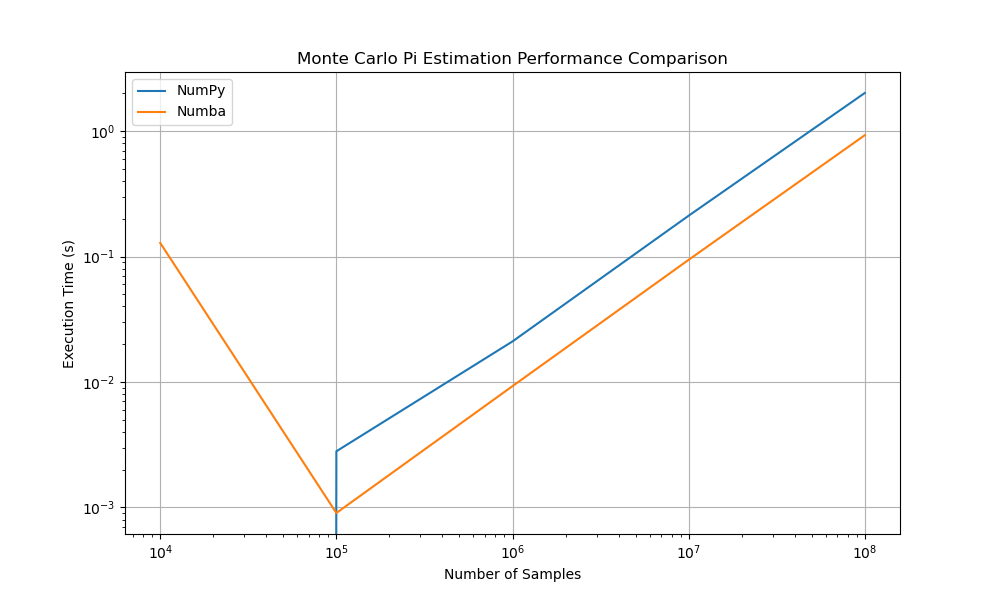
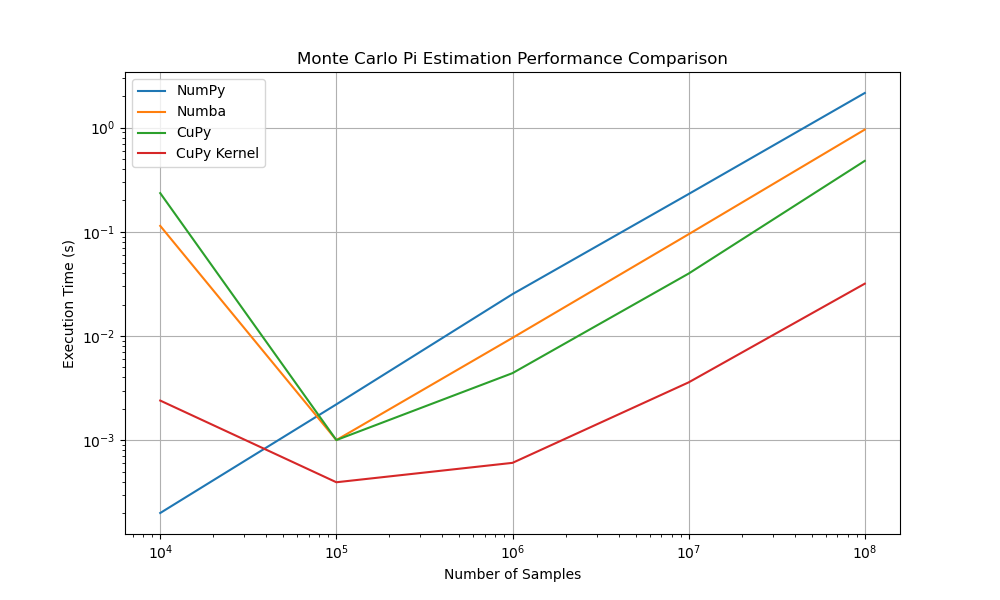
added cuda kernel

diff --git a/misc/monte_carlo_pi.py b/misc/monte_carlo_pi.py
@@ -2,19 +2,40 @@ import numpy as np
 from numba import jit, config
 import matplotlib.pyplot as plt
 import time
+import cupy as cp
+from cupyx import jit as cujit
 
 from utils import *
+import warnings
 
+# disable FutureWarning for Numba JIT
+warnings.filterwarnings("ignore", category=FutureWarning)
+
+# Wrapper functions for timing and comparing Monte Carlo Pi calculations
+# -------------------------------------------------------------------------------------------------
 @avg_timing_decorator
 def monteCarloPiNumpy_AVG(num_samples):
-    """Estimate Pi using Monte Carlo method with NumPy."""
+    """Wrapper function for average timing of Monte Carlo Pi calculation using NumPy."""
     return monteCarloPiNumpy(num_samples)
 
 @avg_timing_decorator
 def monteCarloPiNumba_AVG(num_samples):
-    """Estimate Pi using Monte Carlo method with Numba JIT."""
-    return monteCarloPiNumpy(num_samples)
+    """Wrapper function for average timing of Monte Carlo Pi calculation using Numba JIT."""
+    return monteCarloPiNumba(num_samples)
 
+@avg_timing_decorator
+def monteCarloPiCuPy_AVG(num_samples):
+    """Wrapper function for average timing of Monte Carlo Pi calculation using CuPy."""
+    return monteCarloPiCuPy(num_samples)
+
+@avg_timing_decorator
+def monteCarloPiCuPyKernel_AVG(num_samples):
+    """Wrapper function for average timing of Monte Carlo Pi calculation using a CuPy CUDA kernel."""
+    return monteCarloPiCuPyKernel(num_samples)
+
+
+# Actual Monte Carlo Pi calculation functions
+# -------------------------------------------------------------------------------------------------
 
 def monteCarloPiNumpy(num_samples):
     """Estimate Pi using Monte Carlo method with NumPy."""
@@ -38,6 +59,43 @@ def monteCarloPiNumba(num_samples):
     pi_estimate = (inside_circle / num_samples) * 4
     return pi_estimate
 
+def monteCarloPiCuPy(num_samples):
+    """Estimate Pi using Monte Carlo method with CuPy."""
+    x = cp.random.rand(num_samples)
+    y = cp.random.rand(num_samples)
+    inside_circle = (x**2 + y**2) <= 1.0
+    pi_estimate = (inside_circle.sum() / num_samples) * 4
+    return float(pi_estimate)
+
+# CUDA kernel for Monte Carlo Pi estimation using CuPy RawKernel
+monteCarloPiKernel = cp.RawKernel(r"""
+extern "C" __global__ void monteCarloPi(
+    double* x, double* y, unsigned char* inside, int num_samples) {
+    int tid = blockIdx.x * blockDim.x + threadIdx.x;
+    if (tid < num_samples) {
+        inside[tid] = (x[tid] * x[tid] + y[tid] * y[tid]) <= 1.0;
+    }
+}
+""", "monteCarloPi")
+
+def monteCarloPiCuPyKernel(num_samples):
+    """Estimate Pi using Monte Carlo method with a custom CUDA kernel."""
+    threads_per_block = 256
+    blocks_per_grid = (num_samples + threads_per_block - 1) // threads_per_block
+    
+    x = cp.random.rand(num_samples)
+    y = cp.random.rand(num_samples)
+    inside = cp.zeros(num_samples, dtype=cp.uint8)
+    
+    monteCarloPiKernel(
+        (blocks_per_grid,), (threads_per_block,),
+        (x, y, inside, cp.int32(num_samples))
+    )
+    
+    pi_estimate = (inside.sum() / num_samples) * 4
+    return float(pi_estimate)
+
+
 def main():
     # Parameters
     num_samples = 100_000_000
@@ -46,19 +104,29 @@ def main():
 
     pi_numpy = monteCarloPiNumpy_AVG(num_samples)
     pi_numba = monteCarloPiNumba_AVG(num_samples)
-
-    print(f"Pi estimate using NumPy: {pi_numpy}")
-    print(f"Pi estimate using Numba: {pi_numba}")
+    if check_cupy():
+        pi_cupy = monteCarloPiCuPy_AVG(num_samples)
+        pi_cupy_kernel = monteCarloPiCuPyKernel_AVG(num_samples)
     
+    print(f"\nPi estimate using NumPy:       {pi_numpy}")
+    print(f"Pi estimate using Numba:       {pi_numba}")
+    if check_cupy():
+        print(f"Pi estimate using CuPy:        {pi_cupy}")
+        print(f"Pi estimate using CuPy Kernel: {pi_cupy_kernel}")
+    
+
+
+
+def plot():
     # Plot a performance comparison 
     # --------------------------------------------------------------------------------------------
     print("")
     num_samples = [10**i for i in range(4, 9)]
-    times_numpy = []; times_numba = []
+    times_numpy = []; times_numba = []; times_cupy = []; times_cupy_kernel = []
     num_runs = 5
     for n in num_samples:
         print(f"Estimating Pi using {n:,} samples.")
-        time_numba = 0; time_numpy = 0
+        time_numba = 0; time_numpy = 0; time_cupy = 0; time_cupy_kernel = 0
         for _ in range(num_runs):
             start = time.time()
             monteCarloPiNumpy(n)
@@ -67,17 +135,36 @@ def main():
             start = time.time()
             monteCarloPiNumba(n)
             time_numba += time.time() - start
+
+            if check_cupy():
+                start = time.time()
+                monteCarloPiCuPy(n)
+                time_cupy += time.time() - start
+
+                start = time.time()
+                monteCarloPiCuPyKernel(n)
+                time_cupy_kernel += time.time() - start
+
         times_numpy.append(time_numpy / num_runs)
         times_numba.append(time_numba / num_runs)
+        if check_cupy():
+            times_cupy.append(time_cupy / num_runs)
+            times_cupy_kernel.append(time_cupy_kernel / num_runs)
         
-        print(f"\tAverage execution time for NumPy: {times_numpy[-1]:.4f} seconds")
-        print(f"\tAverage execution time for Numba: {times_numba[-1]:.4f} seconds")
+        print(f"\tAverage execution time for NumPy:       {times_numpy[-1]:.4f} seconds")
+        print(f"\tAverage execution time for Numba:       {times_numba[-1]:.4f} seconds")
+        if check_cupy():
+            print(f"\tAverage execution time for CuPy:        {times_cupy[-1]:.4f} seconds")
+            print(f"\tAverage execution time for CuPy Kernel: {times_cupy_kernel[-1]:.4f} seconds")
                 
         
     # Plot the results
     plt.figure(figsize=(10, 6))
     plt.plot(num_samples, times_numpy, label="NumPy")
     plt.plot(num_samples, times_numba, label="Numba")
+    if check_cupy():
+        plt.plot(num_samples, times_cupy, label="CuPy")
+        plt.plot(num_samples, times_cupy_kernel, label="CuPy Kernel")
     plt.xscale('log')
     plt.yscale('log')
     plt.xlabel("Number of Samples")
@@ -90,28 +177,44 @@ def main():
 
         
 if __name__ == "__main__":
-    main()
+    # main()
+    plot()
     
 
 # OUTPUT:
 # Estimating Pi using 100,000,000 samples.
-# Average execution time for monteCarloPiNumpy_AVG is 2.1093 seconds
-# Average execution time for monteCarloPiNumba_AVG is 1.9931 seconds
-# Pi estimate using NumPy: 3.14150216
-# Pi estimate using Numba: 3.14172632
+# Average execution time for monteCarloPiNumpy_AVG is 2.1847 seconds
+# Average execution time for monteCarloPiNumba_AVG is 1.0806 seconds
+# Average execution time for monteCarloPiCuPy_AVG is 0.4840 seconds
+# Average execution time for monteCarloPiCuPyKernel_AVG is 0.0336 seconds
+# 
+# Pi estimate using NumPy:       3.1416502
+# Pi estimate using Numba:       3.14157812
+# Pi estimate using CuPy:        3.141483
+# Pi estimate using CuPy Kernel: 3.14175208
 
 # Estimating Pi using 10,000 samples.
-#         Average execution time for NumPy: 0.0002 seconds
-#         Average execution time for Numba: 0.1284 seconds
+#         Average execution time for NumPy:       0.0002 seconds
+#         Average execution time for Numba:       0.1140 seconds
+#         Average execution time for CuPy:        0.2349 seconds
+#         Average execution time for CuPy Kernel: 0.0024 seconds
 # Estimating Pi using 100,000 samples.
-#         Average execution time for NumPy: 0.0029 seconds
-#         Average execution time for Numba: 0.0011 seconds
+#         Average execution time for NumPy:       0.0022 seconds
+#         Average execution time for Numba:       0.0010 seconds
+#         Average execution time for CuPy:        0.0010 seconds
+#         Average execution time for CuPy Kernel: 0.0004 seconds
 # Estimating Pi using 1,000,000 samples.
-#         Average execution time for NumPy: 0.0205 seconds
-#         Average execution time for Numba: 0.0089 seconds
+#         Average execution time for NumPy:       0.0252 seconds
+#         Average execution time for Numba:       0.0096 seconds
+#         Average execution time for CuPy:        0.0044 seconds
+#         Average execution time for CuPy Kernel: 0.0006 seconds
 # Estimating Pi using 10,000,000 samples.
-#         Average execution time for NumPy: 0.2071 seconds
-#         Average execution time for Numba: 0.0950 seconds
+#         Average execution time for NumPy:       0.2303 seconds
+#         Average execution time for Numba:       0.0948 seconds
+#         Average execution time for CuPy:        0.0397 seconds
+#         Average execution time for CuPy Kernel: 0.0036 seconds
 # Estimating Pi using 100,000,000 samples.
-#         Average execution time for NumPy: 2.0562 seconds
-#         Average execution time for Numba: 1.0004 seconds
+#         Average execution time for NumPy:       2.1458 seconds
+#         Average execution time for Numba:       0.9563 seconds
+#         Average execution time for CuPy:        0.4791 seconds
+#         Average execution time for CuPy Kernel: 0.0318 seconds

diff --git a/README.MD b/README.MD
@@ -427,31 +427,46 @@ All elements of the result are equal!
 ```
 
 ### Monte Carlo Pi Estimation
-The script `monte_carlo_pi.py` estimates the value of Pi using the Monte Carlo method with NumPy and Numba. The performance of each implementation is compared for different numbers of samples. A visualization of the Monte Carlo simulation for multiple sample sizes is also provided.
+The script `monte_carlo_pi.py` estimates the value of Pi using the Monte Carlo method with NumPy, Numba, and CuPy (Base and CUDA Kernel). The performance of each implementation is compared for different numbers of samples. A visualization of the Monte Carlo simulation for multiple sample sizes is also provided.
 
 An example of the performance comparison is shown below:
 ```
 Estimating Pi using 100,000,000 samples.
-Average execution time for monteCarloPiNumpy_AVG is 2.1093 seconds
-Average execution time for monteCarloPiNumba_AVG is 1.9931 seconds
-Pi estimate using NumPy: 3.14150216
-Pi estimate using Numba: 3.14172632
+Average execution time for monteCarloPiNumpy_AVG is 2.1847 seconds
+Average execution time for monteCarloPiNumba_AVG is 1.0806 seconds
+Average execution time for monteCarloPiCuPy_AVG is 0.4840 seconds
+Average execution time for monteCarloPiCuPyKernel_AVG is 0.0336 seconds
+
+Pi estimate using NumPy:       3.1416502
+Pi estimate using Numba:       3.14157812
+Pi estimate using CuPy:        3.141483
+Pi estimate using CuPy Kernel: 3.14175208
 
 Estimating Pi using 10,000 samples.
-        Average execution time for NumPy: 0.0002 seconds
-        Average execution time for Numba: 0.1284 seconds
+        Average execution time for NumPy:       0.0002 seconds
+        Average execution time for Numba:       0.1140 seconds
+        Average execution time for CuPy:        0.2349 seconds
+        Average execution time for CuPy Kernel: 0.0024 seconds
 Estimating Pi using 100,000 samples.
-        Average execution time for NumPy: 0.0029 seconds
-        Average execution time for Numba: 0.0011 seconds
+        Average execution time for NumPy:       0.0022 seconds
+        Average execution time for Numba:       0.0010 seconds
+        Average execution time for CuPy:        0.0010 seconds
+        Average execution time for CuPy Kernel: 0.0004 seconds
 Estimating Pi using 1,000,000 samples.
-        Average execution time for NumPy: 0.0205 seconds
-        Average execution time for Numba: 0.0089 seconds
+        Average execution time for NumPy:       0.0252 seconds
+        Average execution time for Numba:       0.0096 seconds
+        Average execution time for CuPy:        0.0044 seconds
+        Average execution time for CuPy Kernel: 0.0006 seconds
 Estimating Pi using 10,000,000 samples.
-        Average execution time for NumPy: 0.2071 seconds
-        Average execution time for Numba: 0.0950 seconds
+        Average execution time for NumPy:       0.2303 seconds
+        Average execution time for Numba:       0.0948 seconds
+        Average execution time for CuPy:        0.0397 seconds
+        Average execution time for CuPy Kernel: 0.0036 seconds
 Estimating Pi using 100,000,000 samples.
-        Average execution time for NumPy: 2.0562 seconds
-        Average execution time for Numba: 1.0004 seconds
+        Average execution time for NumPy:       2.1458 seconds
+        Average execution time for Numba:       0.9563 seconds
+        Average execution time for CuPy:        0.4791 seconds
+        Average execution time for CuPy Kernel: 0.0318 seconds
 ```
 
 **Visualizing the time taken to estimate Pi using the Monte Carlo method with different sample sizes:**
